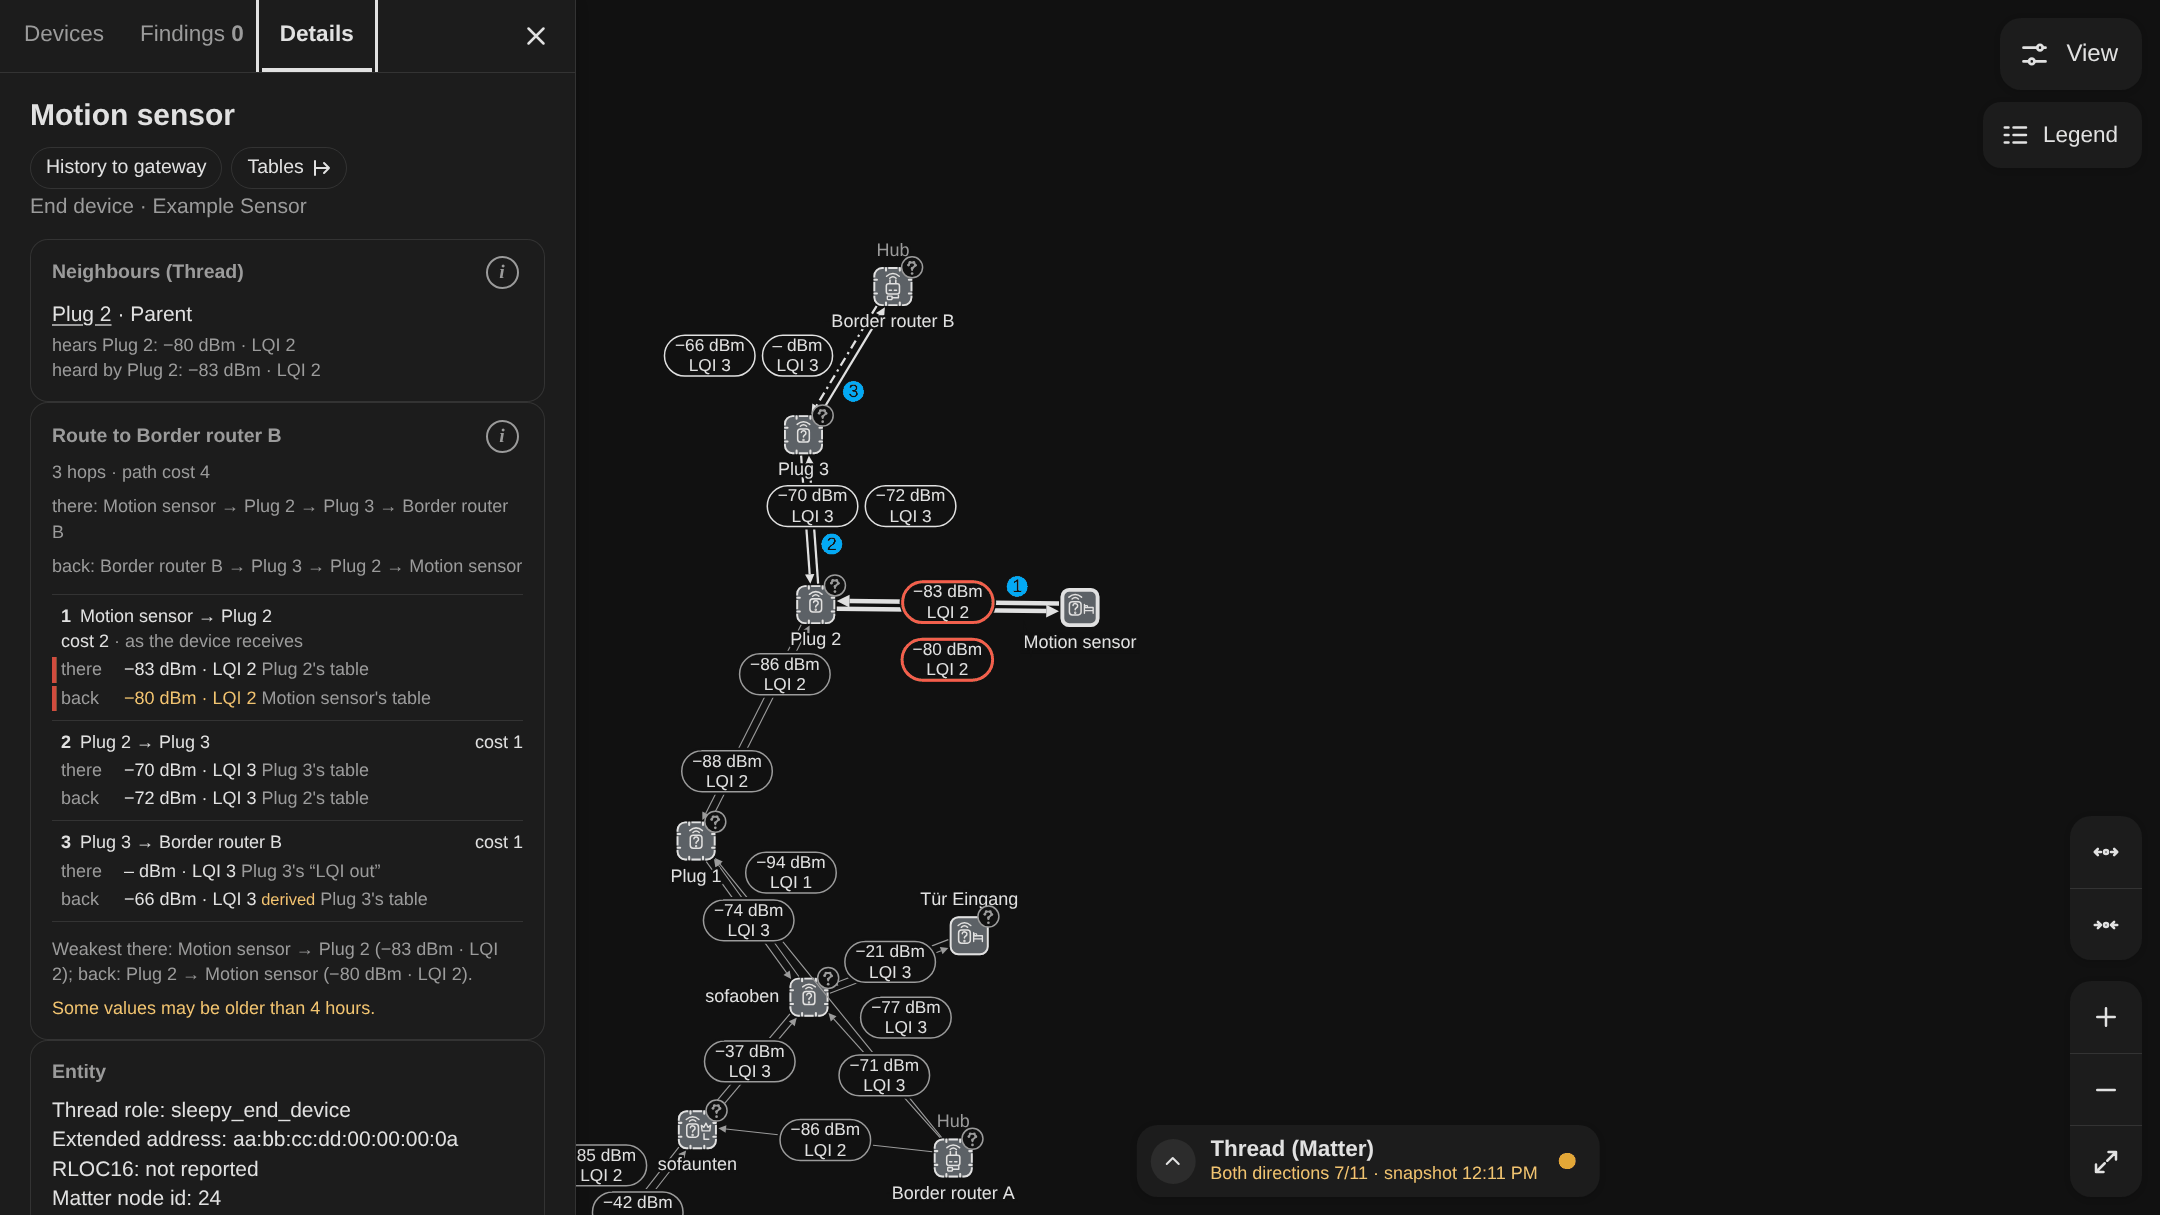
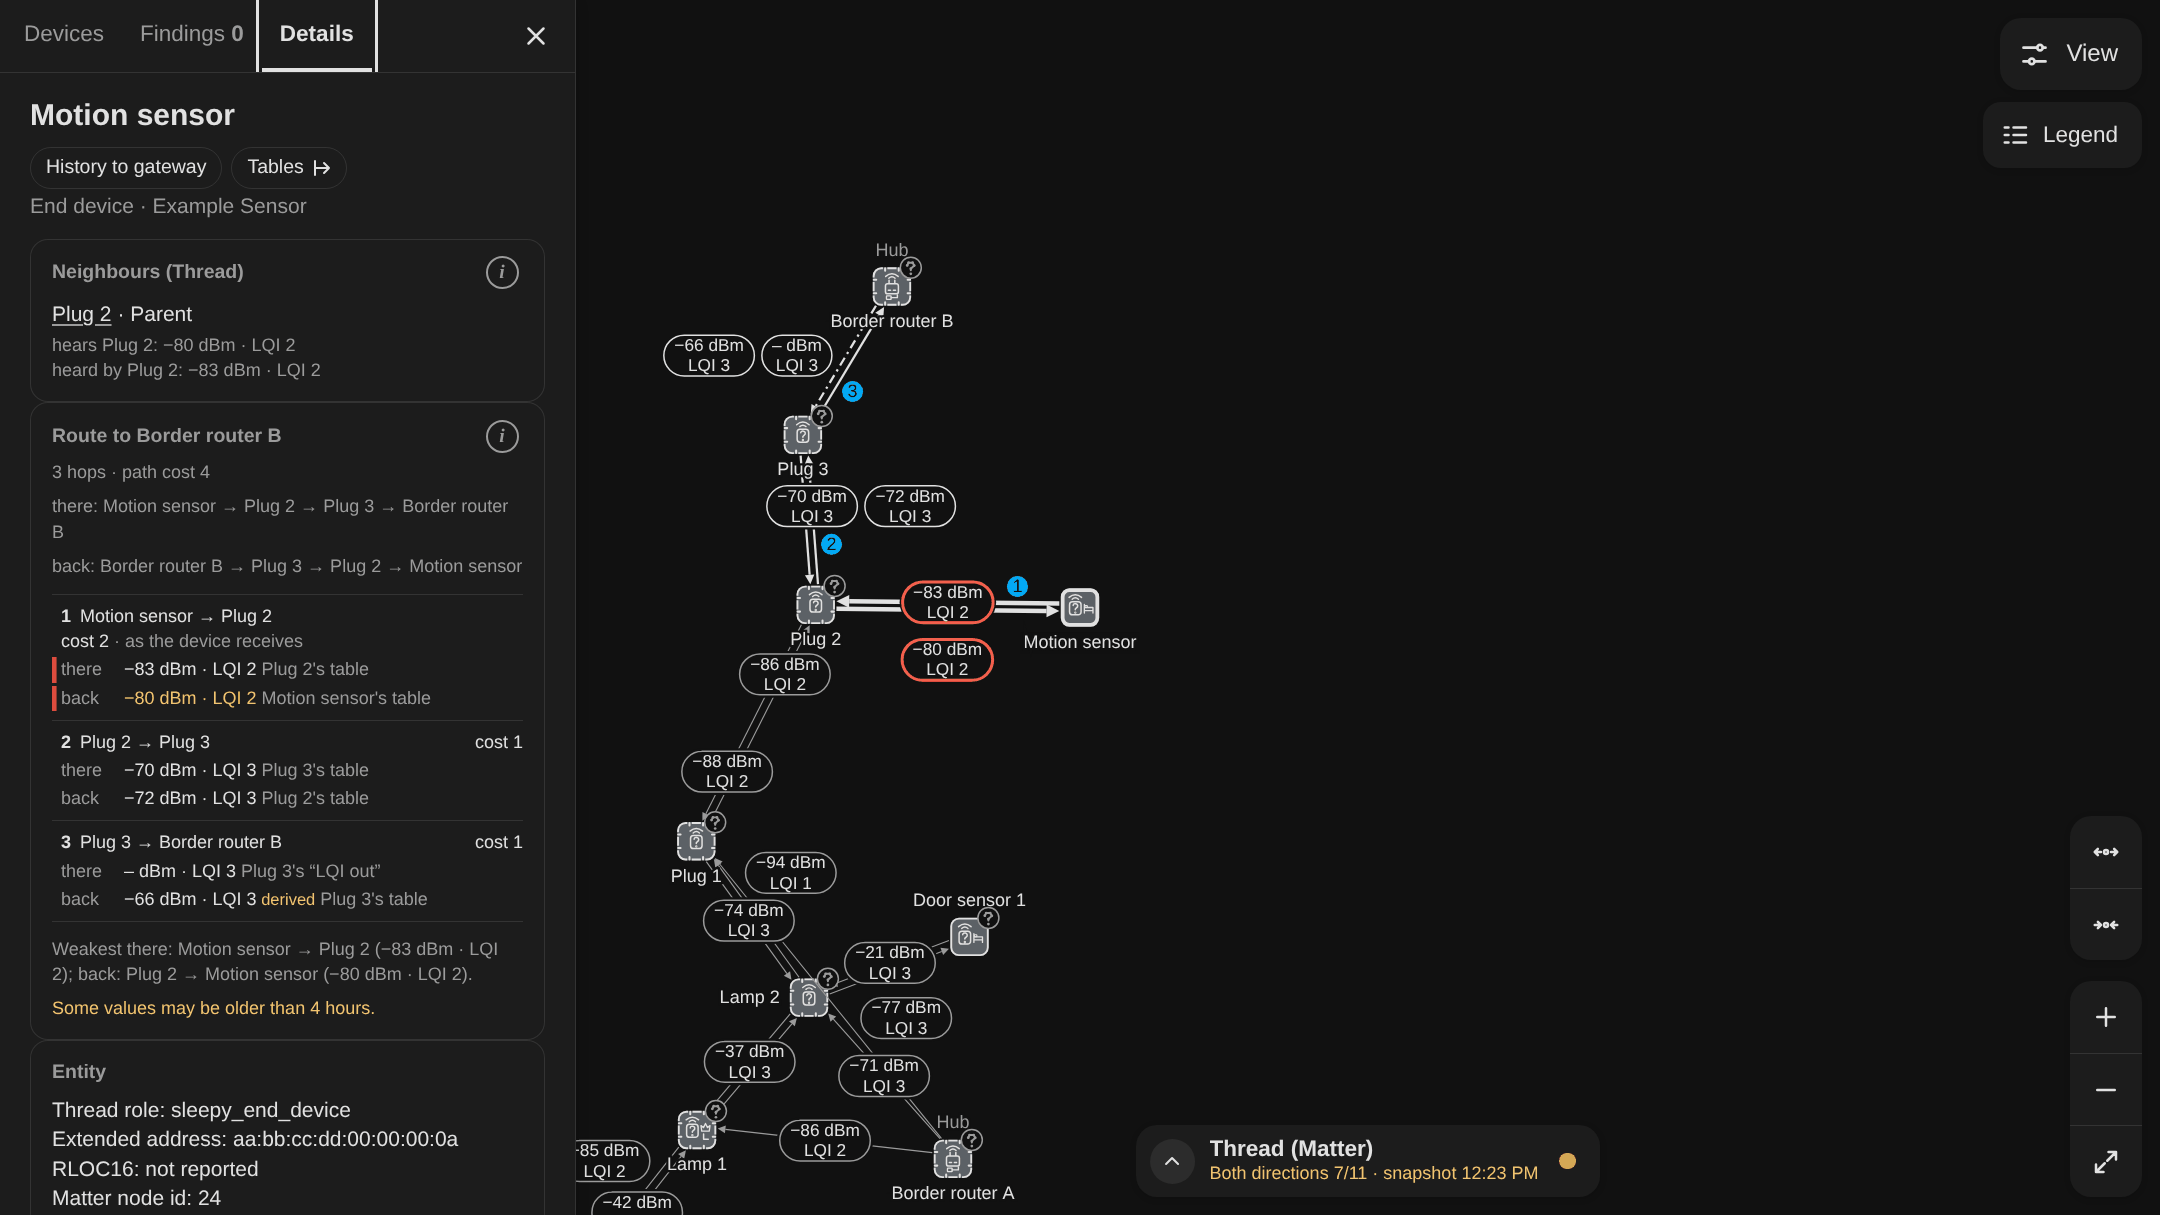
Thread route sample: role names instead of room-like device names
Fixtures, tests and the dev page use neutral role names; Thread screenshots regenerated.

Provenance: agent claude-code/sonnet; brief r03

diff --git a/dev/panel-demo.js b/dev/panel-demo.js
@@ -274,7 +274,7 @@ const routesSample = matterMode === "routes" ? (await import("../tests/thread-ro
   .threadRoutesSample({ readAt: Math.round(Date.now() / 1000) }) : null; // read now: tables 1, 3 and 21 h unchanged
 // longnames=1 (with matter=routes, #22): the motion sensor's route runs over a device and a border router with long names.
 if (routesSample && flag("longnames")) {
-  routesSample.registry.find((r) => r.name === "Plug 2").name = "atelierlichtsofaobenwohnzimmerdeckenlampe"; // 41 characters, no break point
+  routesSample.registry.find((r) => r.name === "Plug 2").name = "examplelightceilinglampnobreakpointxxxxx"; // 41 characters, no break point
   routesSample.topology.nodes.find((n) => n.host_name === "Border router B").host_name = "Home Assistant OpenThread Border Router #F09A";
 }
 // partitions=1 (with matter=routes, #21): border routers A and B advertise different partitions, received 3 and 40 min ago.
